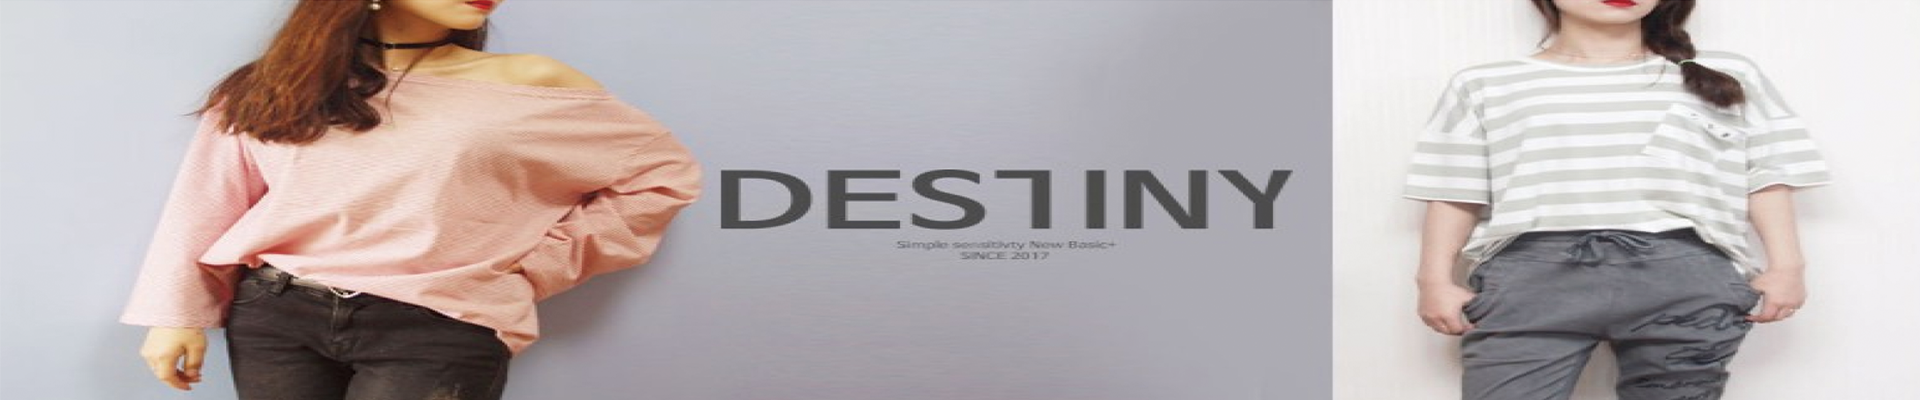
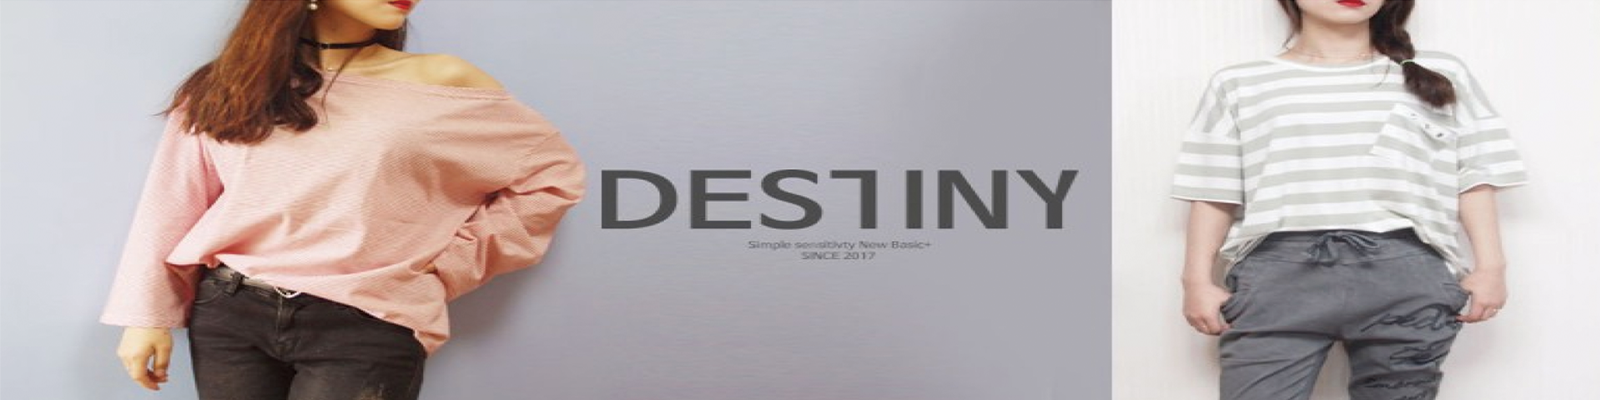
2023-08-28 shopping-mall

diff --git a/index.html b/index.html
@@ -122,8 +122,10 @@
         <a href="#"><img src="images/slide03.png" alt="슬라이드이미지"></a>
     </div>
     <section>
-        <div id="title">
-            <h2>봄&여름 인기상품</h2>
+        <div id="title-box">
+            <div id="title">
+                <h2>봄&여름 인기상품</h2>
+            </div>
         </div>
         <div id="men">
             <div id="mslide">
@@ -282,86 +284,90 @@
             </div>
         </div>
     </section>
-    <div id="banner">
-        <a href="#"><img src="images/banner.png" alt="베너이미지"></a>
-    </div>
-    <div class="line">
-        <hr>
-    </div>
-    <div id="guide">
-        <div class="call">
-            <h2>친절고객센터</h2>
-            <p>1234-1234</p>
-            <li>월요일 - 금요일 10:00 - 17:00</li>
-            <li>점심시간 13:00 - 14:00</li>
-            <li>[주말/공휴일휴무]</li>
-            <li>고객상담을 위한 연락처로 마케팅 제안은 정중히 사양합니다.</li>
-        </div>
-        <div class="bank-guide">
-            <h2>무통장 안내</h2>
-            <div class="bank">
-                <li class="bank-name">
-                    우체국<br> 
-                    농협중앙회<br>
-                    국민은행<br>
-                    예금주<br>
-                </li>
-                <li class="bank-num">
-                    123756-78-901234<br>
-                    123756-78-901234<br>
-                    123756-78-901234<br>
-                    123756-78-901234<br> 
-                </li>
-            </div>
-            <p>*입금 시 입금자명과 금액을 꼭<br>
-                확인해주세요<br>
-                무통장 입금 자동확인까지<br>
-                30분 정도 소요됩니다.
-            </p>
-            <div class="bank-btn">
-                <a href="#"><h2>뱅킹</h2></a>
-                <a href="#"><h2>미확인입금</h2></a>
-                <a href="#" class="mu"><h2>무의자할부</h2></a>
+    <section>
+        <div id="banner-box">
+            <div id="banner">
+                <a href="#"><img src="images/banner.png" alt="베너이미지"></a>
             </div>
         </div>
-        <div class="refund-guide">
-            <h2>교환 · 반품안내</h2>
-            <div class="delivery">
-                <li>택배업체: CJ대한통운 1234-1234<br>
-                    ※반품 시 반드시 하단의 주소지에 맞게 발송해주셔야 합니다.
-                </li>
-                <li>
-                    <p>*대한통운 이용시 반품주소</p><br>
-                    주소: 광주광역시 서구 경열로3 한울직업전문학교
-                </li>
+        <div class="line">
+            <hr>
+        </div>
+        <div id="guide">
+            <div class="call">
+                <h2>친절고객센터</h2>
+                <p>1234-1234</p>
+                <li>월요일 - 금요일 10:00 - 17:00</li>
+                <li>점심시간 13:00 - 14:00</li>
+                <li>[주말/공휴일휴무]</li>
+                <li>고객상담을 위한 연락처로 마케팅 제안은 정중히 사양합니다.</li>
             </div>
-            <div class="refund-btn">
-                <a href="#"><i class="fa-solid fa-truck"></i> 교환반품 방법 확인</a>
-                <a href="#"><i class="fa-solid fa-truck"></i> CJ대한통운 택배조회</a>
+            <div class="bank-guide">
+                <h2>무통장 안내</h2>
+                <div class="bank">
+                    <li class="bank-name">
+                        우체국<br>
+                        농협중앙회<br>
+                        국민은행<br>
+                        예금주<br>
+                    </li>
+                    <li class="bank-num">
+                        123756-78-901234<br>
+                        123756-78-901234<br>
+                        123756-78-901234<br>
+                        123756-78-901234<br>
+                    </li>
+                </div>
+                <p>*입금 시 입금자명과 금액을 꼭<br>
+                    확인해주세요<br>
+                    무통장 입금 자동확인까지<br>
+                    30분 정도 소요됩니다.
+                </p>
+                <div class="bank-btn">
+                    <a href="#"><h2>뱅킹</h2></a>
+                    <a href="#"><h2>미확인입금</h2></a>
+                    <a href="#" class="mu"><h2>무의자할부</h2></a>
+                </div>
+            </div>
+            <div class="refund-guide">
+                <h2>교환 · 반품안내</h2>
+                <div class="delivery">
+                    <li>택배업체: CJ대한통운 1234-1234<br>
+                        ※반품 시 반드시 하단의 주소지에 맞게 발송해주셔야 합니다.
+                    </li>
+                    <li>
+                        <p>*대한통운 이용시 반품주소</p><br>
+                        주소: 광주광역시 서구 경열로3 한울직업전문학교
+                    </li>
+                </div>
+                <div class="refund-btn">
+                    <a href="#"><i class="fa-solid fa-truck"></i> 교환반품 방법 확인</a>
+                    <a href="#"><i class="fa-solid fa-truck"></i> CJ대한통운 택배조회</a>
+                </div>
+            </div>
+            <div class="shopping-guide">
+                <h2>쇼핑 · 가이드</h2>
+                <div class="shop-guide">
+                    <li>
+                        <a href=""><i class="fa-solid fa-phone-flip icond"></i></a><br>
+                        <p>고객센터</p>
+                    </li>
+                    <li>
+                        <a href=""><i class="fa-solid fa-truck icond"></i></a><br>
+                        <p>배송조회</p>
+                    </li>
+                    <li>
+                        <a href=""><i class="fa-solid fa-message icond"></i></a><br>
+                        <p>상품문의</p>
+                    </li>
+                    <li>
+                        <a href=""><i class="fa-solid fa-camera icond"></a></i><br>
+                        <p>상품후기</p>
+                    </li>
+                </div>
             </div>
         </div>
-        <div class="shopping-guide">
-            <h2>쇼핑 · 가이드</h2>
-            <div class="shop-guide">
-                <li>
-                    <a href=""><i class="fa-solid fa-phone-flip icond"></i></a><br>
-                    <p>고객센터</p>
-                </li>
-                <li>
-                    <a href=""><i class="fa-solid fa-truck icond"></i></a><br>
-                    <p>배송조회</p>
-                </li>
-                <li>
-                    <a href=""><i class="fa-solid fa-message icond"></i></a><br>
-                    <p>상품문의</p>
-                </li>
-                <li>
-                    <a href=""><i class="fa-solid fa-camera icond"></a></i><br>
-                    <p>상품후기</p>
-                </li>
-            </div>
-        </div>
-    </div>
+    </section>
     <footer>
         <div class="fr">
             <div id="flogo">

diff --git a/css/main.css b/css/main.css
@@ -8,10 +8,11 @@ header {
     margin-top: 20px;
 }
 
-/* body {
-    width: 1920px;
+body {
+    width: 100%;
+    height: 100%;
     overflow-x: hidden;
-} */
+}
 
 #tnb {
     display: flex;
@@ -118,6 +119,8 @@ header {
     height: 400px;
     overflow: hidden;
     background: #000;
+    width: 1600px;
+    margin: 0 auto;
 }
 
 #slide > a {
@@ -153,6 +156,14 @@ section {
     margin: 0 auto;
 }
 
+#title-box {
+    width: 1600px;
+    margin: 10px auto;
+    display: flex;
+    justify-content: center;
+    margin-top: 100px;
+}
+
 #title {
     display: flex;
     justify-content: center;
@@ -160,8 +171,8 @@ section {
     color: #fff;
     width: 200px;
     padding: 15px 15px;
-    position: absolute;
-    right: 1160px;
+    /* position: absolute;
+    right: 1160px; */
     margin-top: 5px;
     border-radius: 25px;
 }
@@ -215,9 +226,9 @@ section {
     overflow: hidden;
 }
 
-#men {
+/* #men {
     margin-top: 50px;
-}
+} */
 
 #wslide > h2 {
     position: absolute;
@@ -377,30 +388,40 @@ section {
 
 /************************** banner style ****************************/
 
-#banner {
-    position: absolute;
-    top: 350vh;
-    right: 135px;
+#banner-box {
+    width: 1600px;
+    position: relative;
 }
 
-#banner > img {
+#banner {
+    position: absolute;
+    bottom: -1590px;
+    /* right: 465px; */
     width: 1600px;
+    margin: 0 auto;
+}
+
+#banner img {
+    width: 1600px;
+    
 }
 
 /************************** guide style ****************************/
 
 .line {
     position: relative;
-    bottom: -1170px;
+    bottom: -1700px;
     opacity: 0.20;
 }
 
 #guide {
-    position: absolute;
-    top: 400vh;
-    left: 170px;
+    position: relative;
+    bottom: -1800px;
+    /* left: 170px; */
     display: flex;
     list-style: none;
+    /* border-top: 1px solid #ccc; */
+    justify-content: center;
     /* border-top: 1px solid #ccc; */
 }
 /************************** call style ****************************/

diff --git a/js/script.js b/js/script.js
@@ -12,16 +12,15 @@ $(document).ready(function () {
         $('#slide>a').eq(idx).fadeIn(800);
     }, 3000);
 /************** main slide **************/
-    setInterval(function() {
-        $('#mslide > a').eq(idx).show();
-        idx==2?idx=0:idx++;
-        $('#mslide > a').eq(idx).hide();
-    }, 3000);
+    // setInterval(function() {
+    //     $('#mslide > a').eq(idx).show();
+    //     idx==2?idx=0:idx++;
+    //     $('#mslide > a').eq(idx).hide();
+    // }, 3000);
 
-    setInterval(function() {
-        $('#mslide2 > a').eq(idx).show();
-        idx==2?idx=0:idx++;
-        $('#mslide2 > a').eq(idx).hide();
-    }, 3000);
-    
+    // setInterval(function() {
+    //     $('#mslide2 > a').eq(idx).show();
+    //     idx==2?idx=0:idx++;
+    //     $('#mslide2 > a').eq(idx).hide();
+    // }, 3000);  
 });
